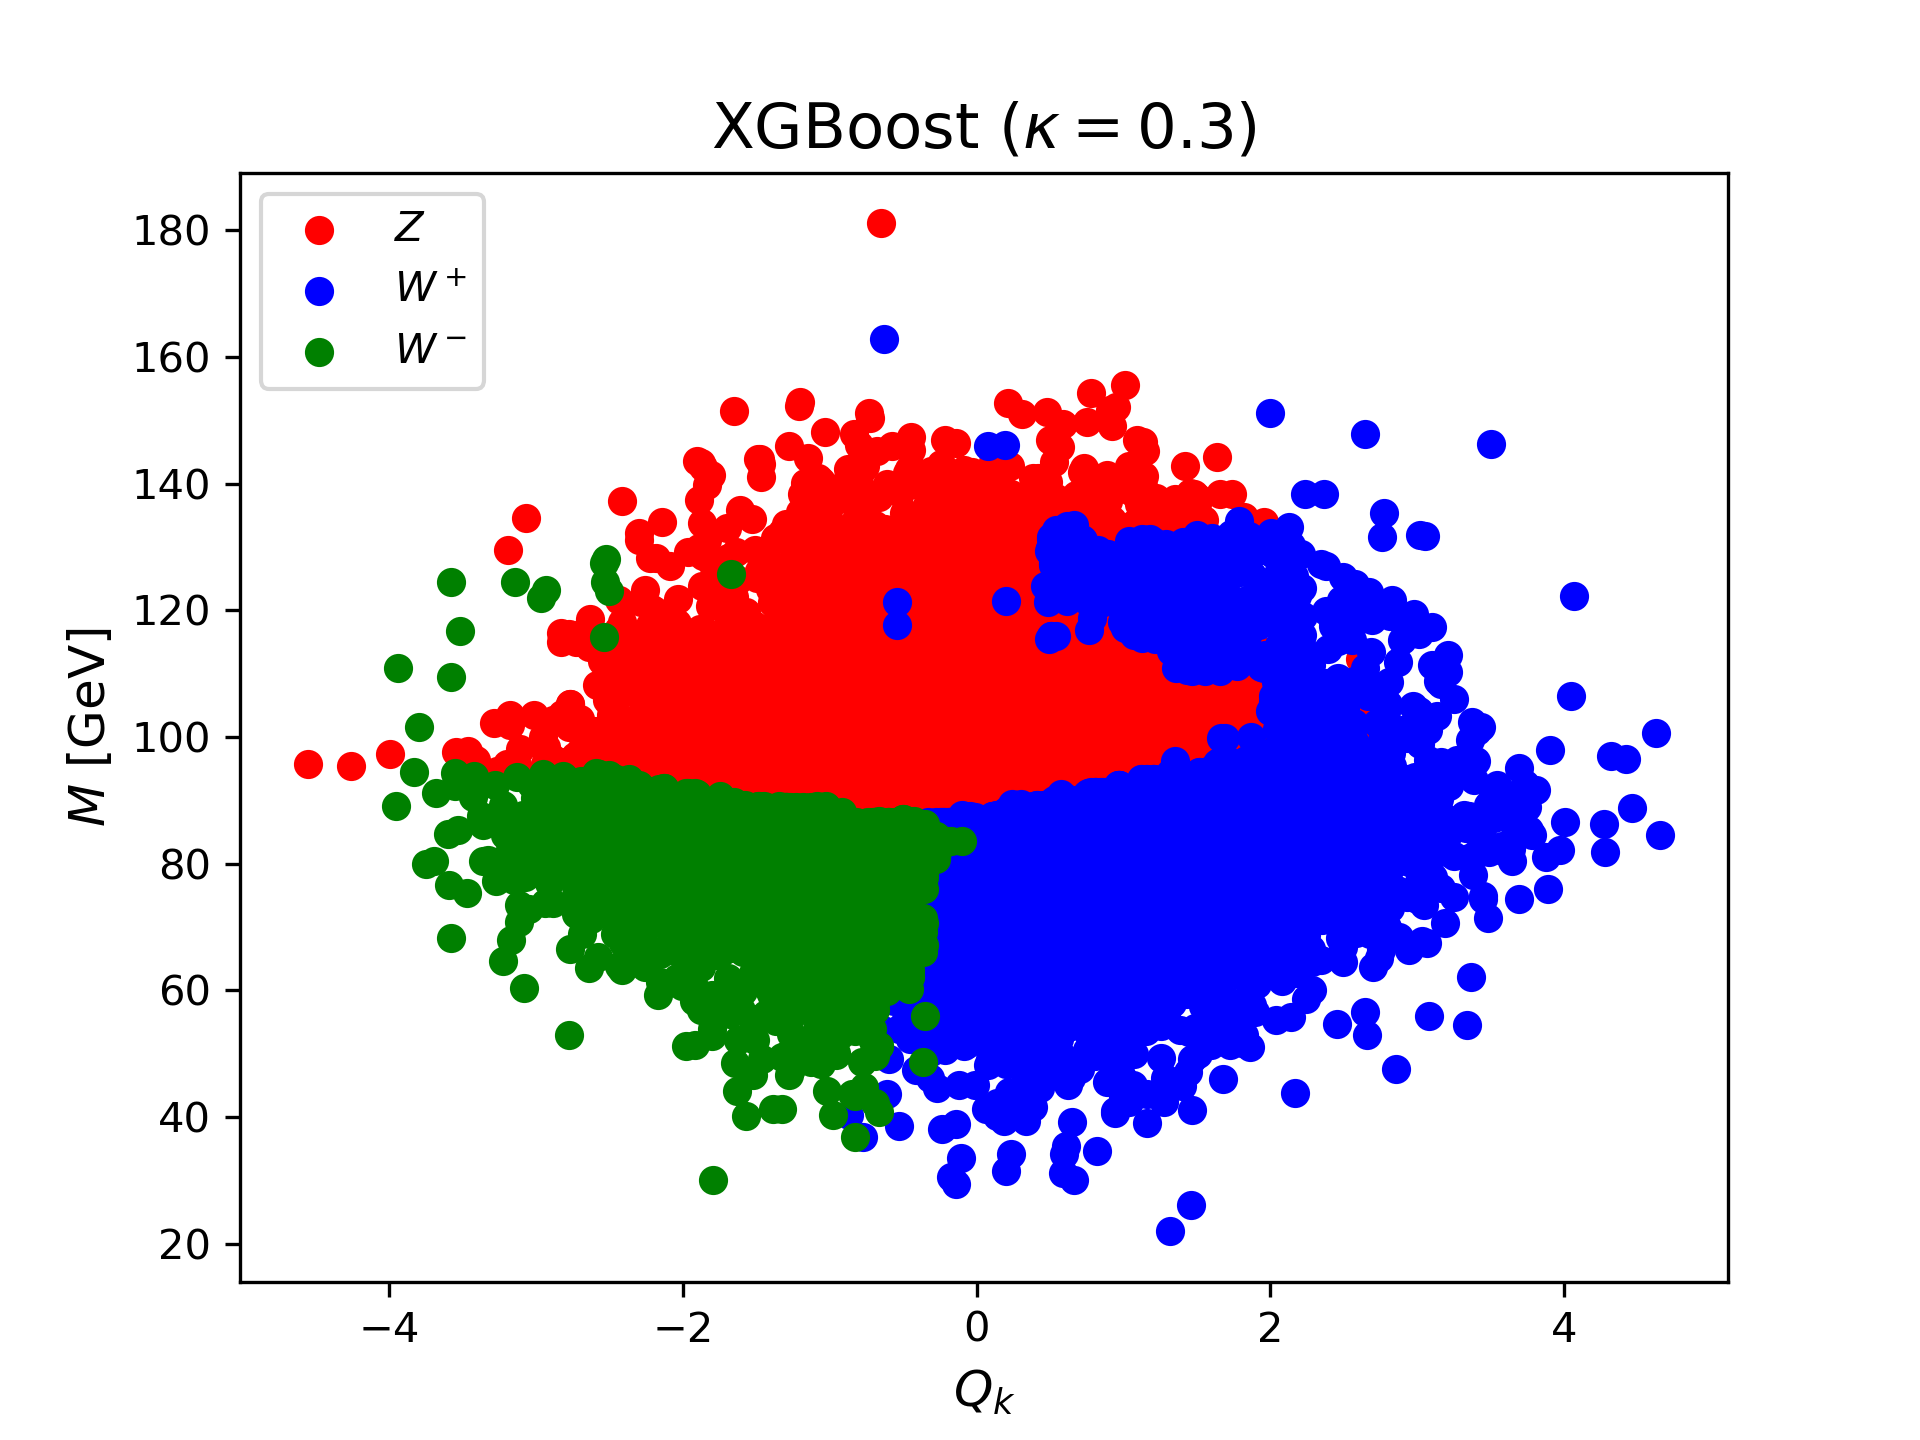
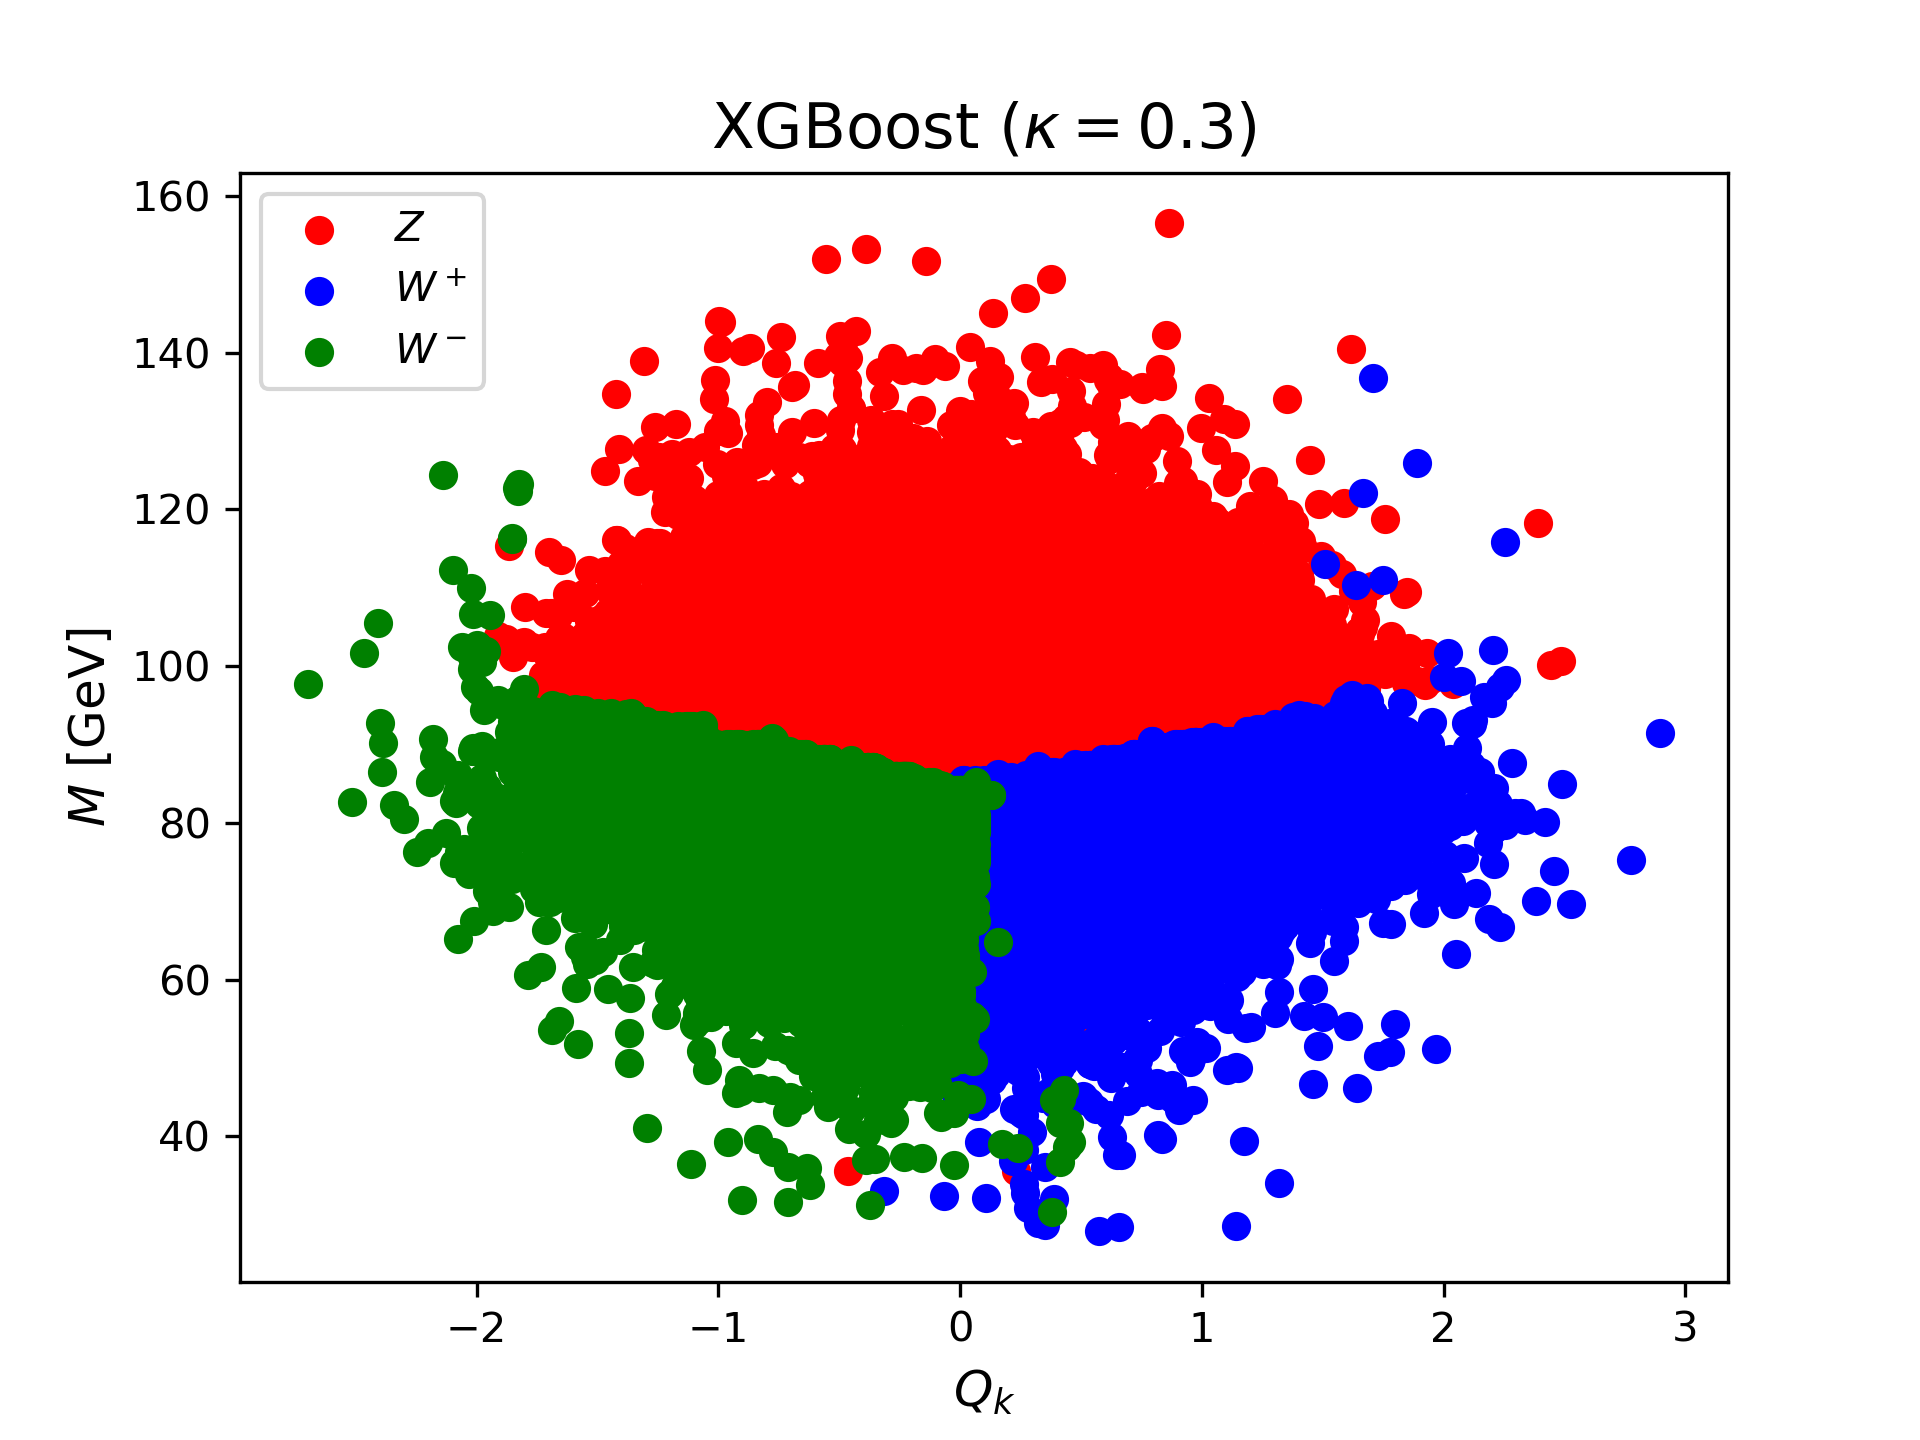
Please enter the commit message for your changes. Lines starting   with ' ' will be ignored, and an empty message aborts the commit.
On branch master
  Your branch is up to date with 'main/master'.

  Changes to be committed:
 	modified:   ../BDT/BDT.py
 	modified:   ../BDT/figures/BDT_prediction_kappa0.3.png
 	modified:   README.md

  Untracked files:
 	../.ipynb_checkpoints/
 	../BDT/roc_curve_kappa0.3.png
 	../CNN/run.sh
 	../__pycache__/
 	../best_model/best_model_binary-WpWm_CNN_kappa.15/
 	../best_model/best_model_binary-WpWm_CNN_kappa0.15/keras_metadata.pb
 	../best_model/best_model_binary-WpWm_CNN_kappa0.15/latest_run.log
 	../best_model/best_model_binary-WpWm_CNN_kappa0.15/saved_model.pb
 	../best_model/best_model_binary-WpWm_CNN_kappa0.15/variables/
 	../best_model/best_model_binary-WpWm_CNN_kappa0.3/keras_metadata.pb
 	../best_model/best_model_binary-WpWm_CNN_kappa0.3/saved_model.pb
 	../best_model/best_model_binary-WpWm_CNN_kappa0.3/variables/
 	../best_model/best_model_binary-WpWm_CNNsq_kappa.15/
 	../best_model/best_model_binary-WpWm_CNNsq_kappa0.15/keras_metadata.pb
 	../best_model/best_model_binary-WpWm_CNNsq_kappa0.15/latest_run.log
 	../best_model/best_model_binary-WpWm_CNNsq_kappa0.15/saved_model.pb
 	../best_model/best_model_binary-WpWm_CNNsq_kappa0.15/variables/
 	../best_model/best_model_binary-WpWm_CNNsq_kappa0.3/keras_metadata.pb
 	../best_model/best_model_binary-WpWm_CNNsq_kappa0.3/saved_model.pb
 	../best_model/best_model_binary-WpWm_CNNsq_kappa0.3/variables/
 	../best_model/best_model_binary-WpZ_CNN_kappa0.15/keras_metadata.pb
[…]

diff --git a/BDT/BDT.py b/BDT/BDT.py
@@ -11,8 +11,8 @@ from keras.layers import Dense, Dropout, Flatten, Conv2D, MaxPooling2D
 from tqdm import tqdm
 from contextlib import ExitStack
 import itertools
-kappa = "0.15"
-datafolder = 'sample/samples_kappa'+kappa+'/'
+kappa = "0.3"
+datafolder = '../sample/samples_kappa'+kappa+'/'
 datanames = ['VBF_H5pp_ww_jjjj', 'VBF_H5mm_ww_jjjj', 'VBF_H5z_zz_jjjj']
 data_counts = []
 for dataname in datanames: 

diff --git a/sample/README.md b/sample/README.md
@@ -1,11 +1,14 @@
 # Descriptions
-In this folder, we generate samples in Directory **VBF_H5pp_ww_jjjj**, **VBF_H5mm_ww_jjjj**, and **VBF_H5z_ww_jjjj**. Then the jet samples are selected in **extract*.py** and the selected samples are divided into training, valid, and testing dataest in **convert*.py*. For the last two step, they are executed in **run.sh**. The datasets are saved in folder **samples_kappa* ** (They are not archived in GitHub since they are too big.), and ready to be used for machine learning.
+In this folder, we generate samples in Directory **VBF_H5pp_ww_jjjj**, **VBF_H5mm_ww_jjjj**, and **VBF_H5z_ww_jjjj**. Then the jet samples are selected in **extract.py** and the selected samples are divided into training, valid, and testing dataest in **convert.py**. For the last two step, they are executed in **run.sh**. The datasets are saved in folder **samples_kappa* ** (They are not archived in GitHub since they are too big.), and ready to be used for machine learning.
 
 # Coding script Usage
-* convert.py
-* extract.py
-* plot_jet_sample.py
-* run.sh 
-* rundelphes.sh
-* tfr_utils.py
-* writeTFR.py
+Here are the fundamental functional script for the data processing. 
+* **convert (py)**: convert the selected jet samples into training, valid, and testing datasets.
+* **extract (py)**: select the proper jet from the Delphes samples and extract their jet images.
+* **plot_jet_sample (py)**: plot the jet sample image in average for all class of data.
+* **run (sh)**: run through all the step at once, including extract, plot, and convert.
+* **rundelphes (sh)**: Use Delphes to generate detector-level information from Pythia sample.
+* **tfr_utils (py)**: helper functions for creating tf.train.feature of different types. 
+* **writeTFR (py)**: helper functions that transform the data from npy to tfrecord.
+
+
